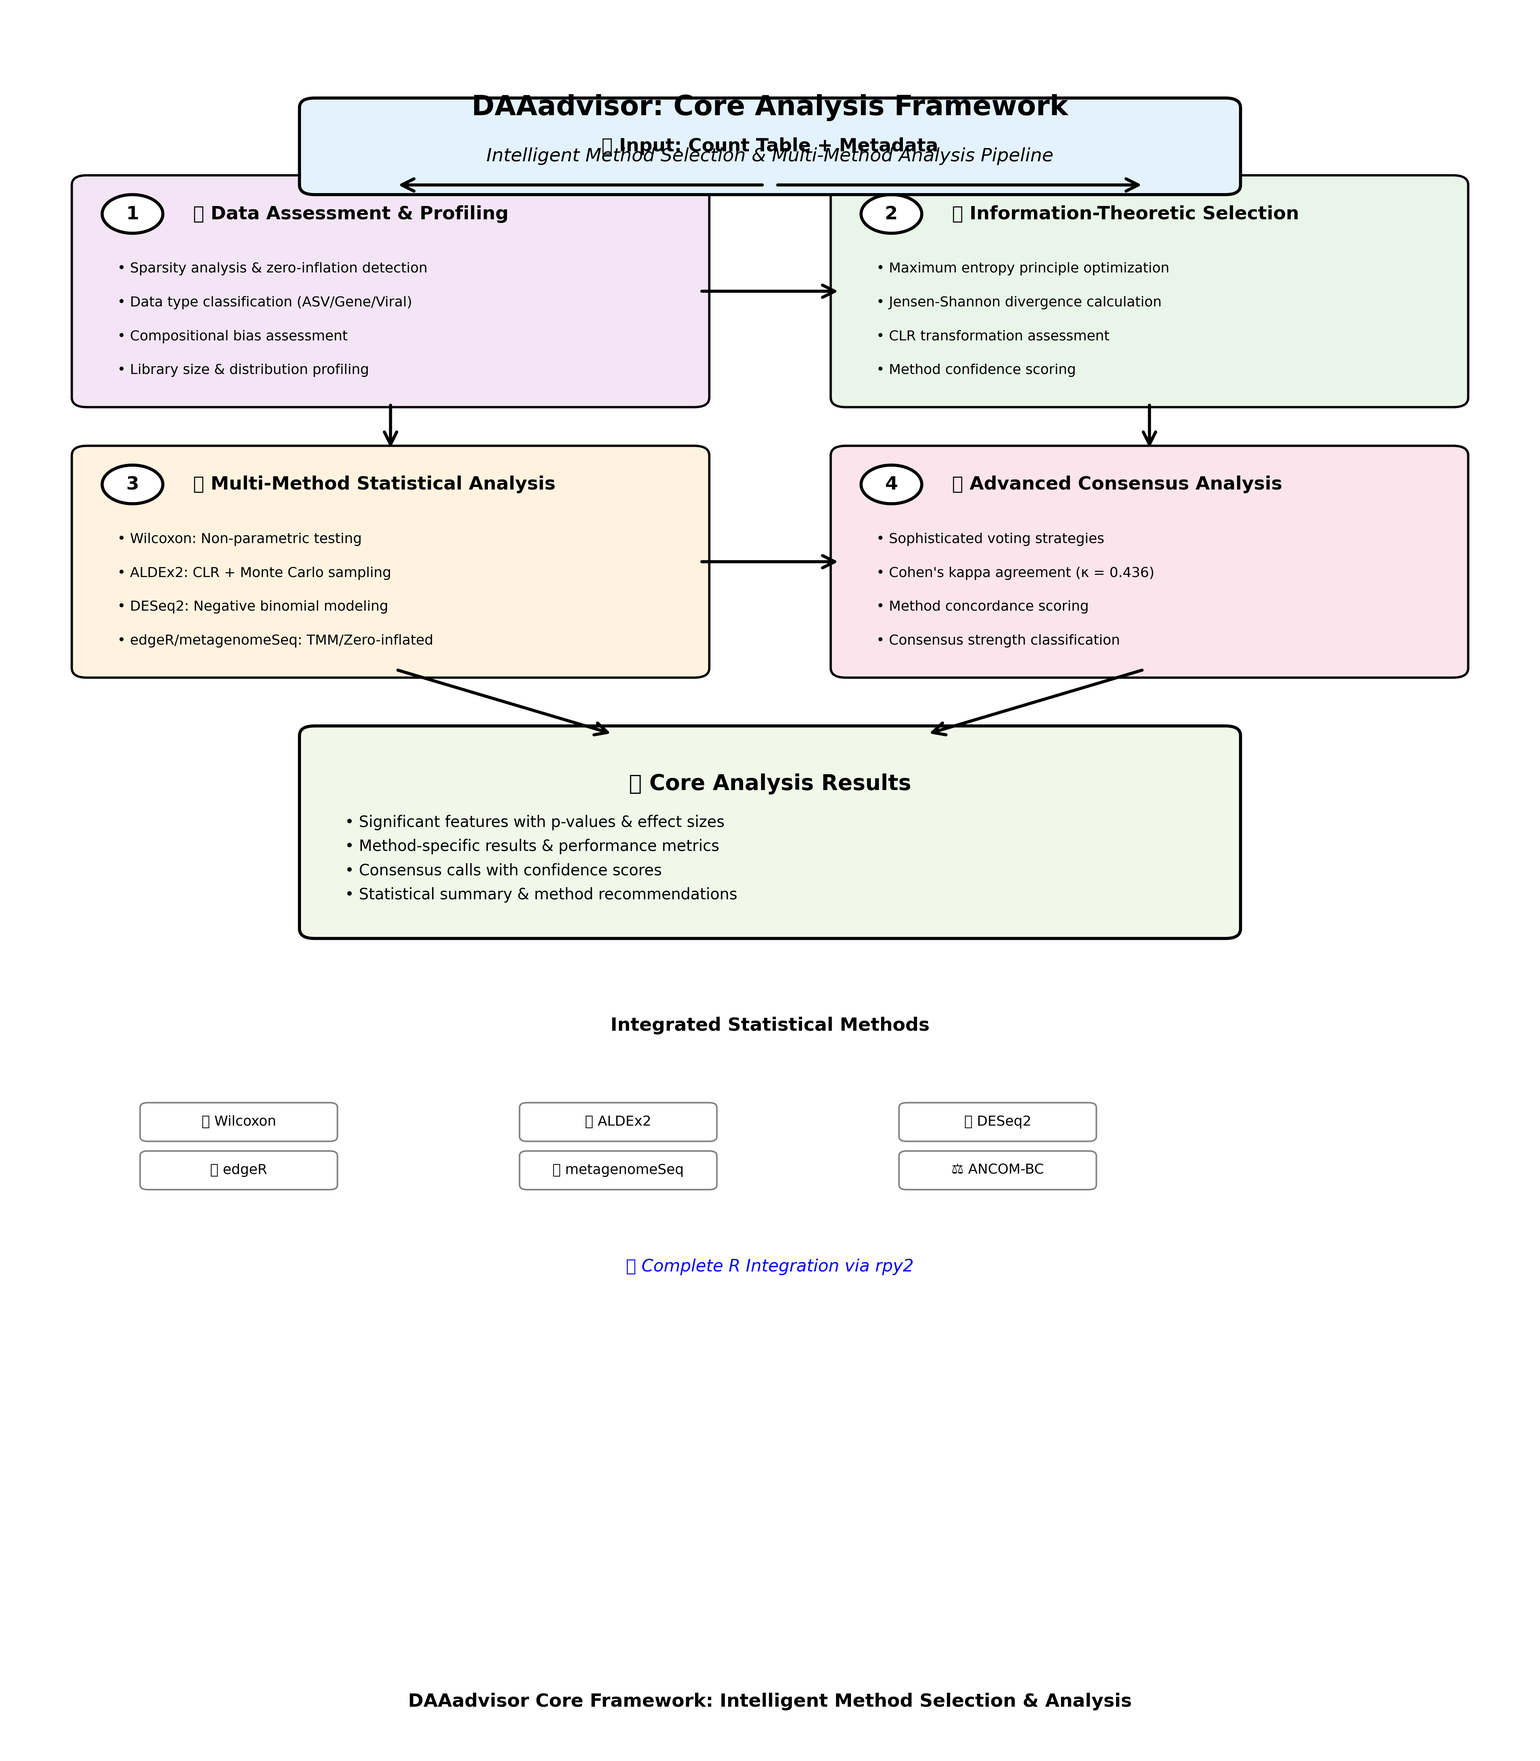
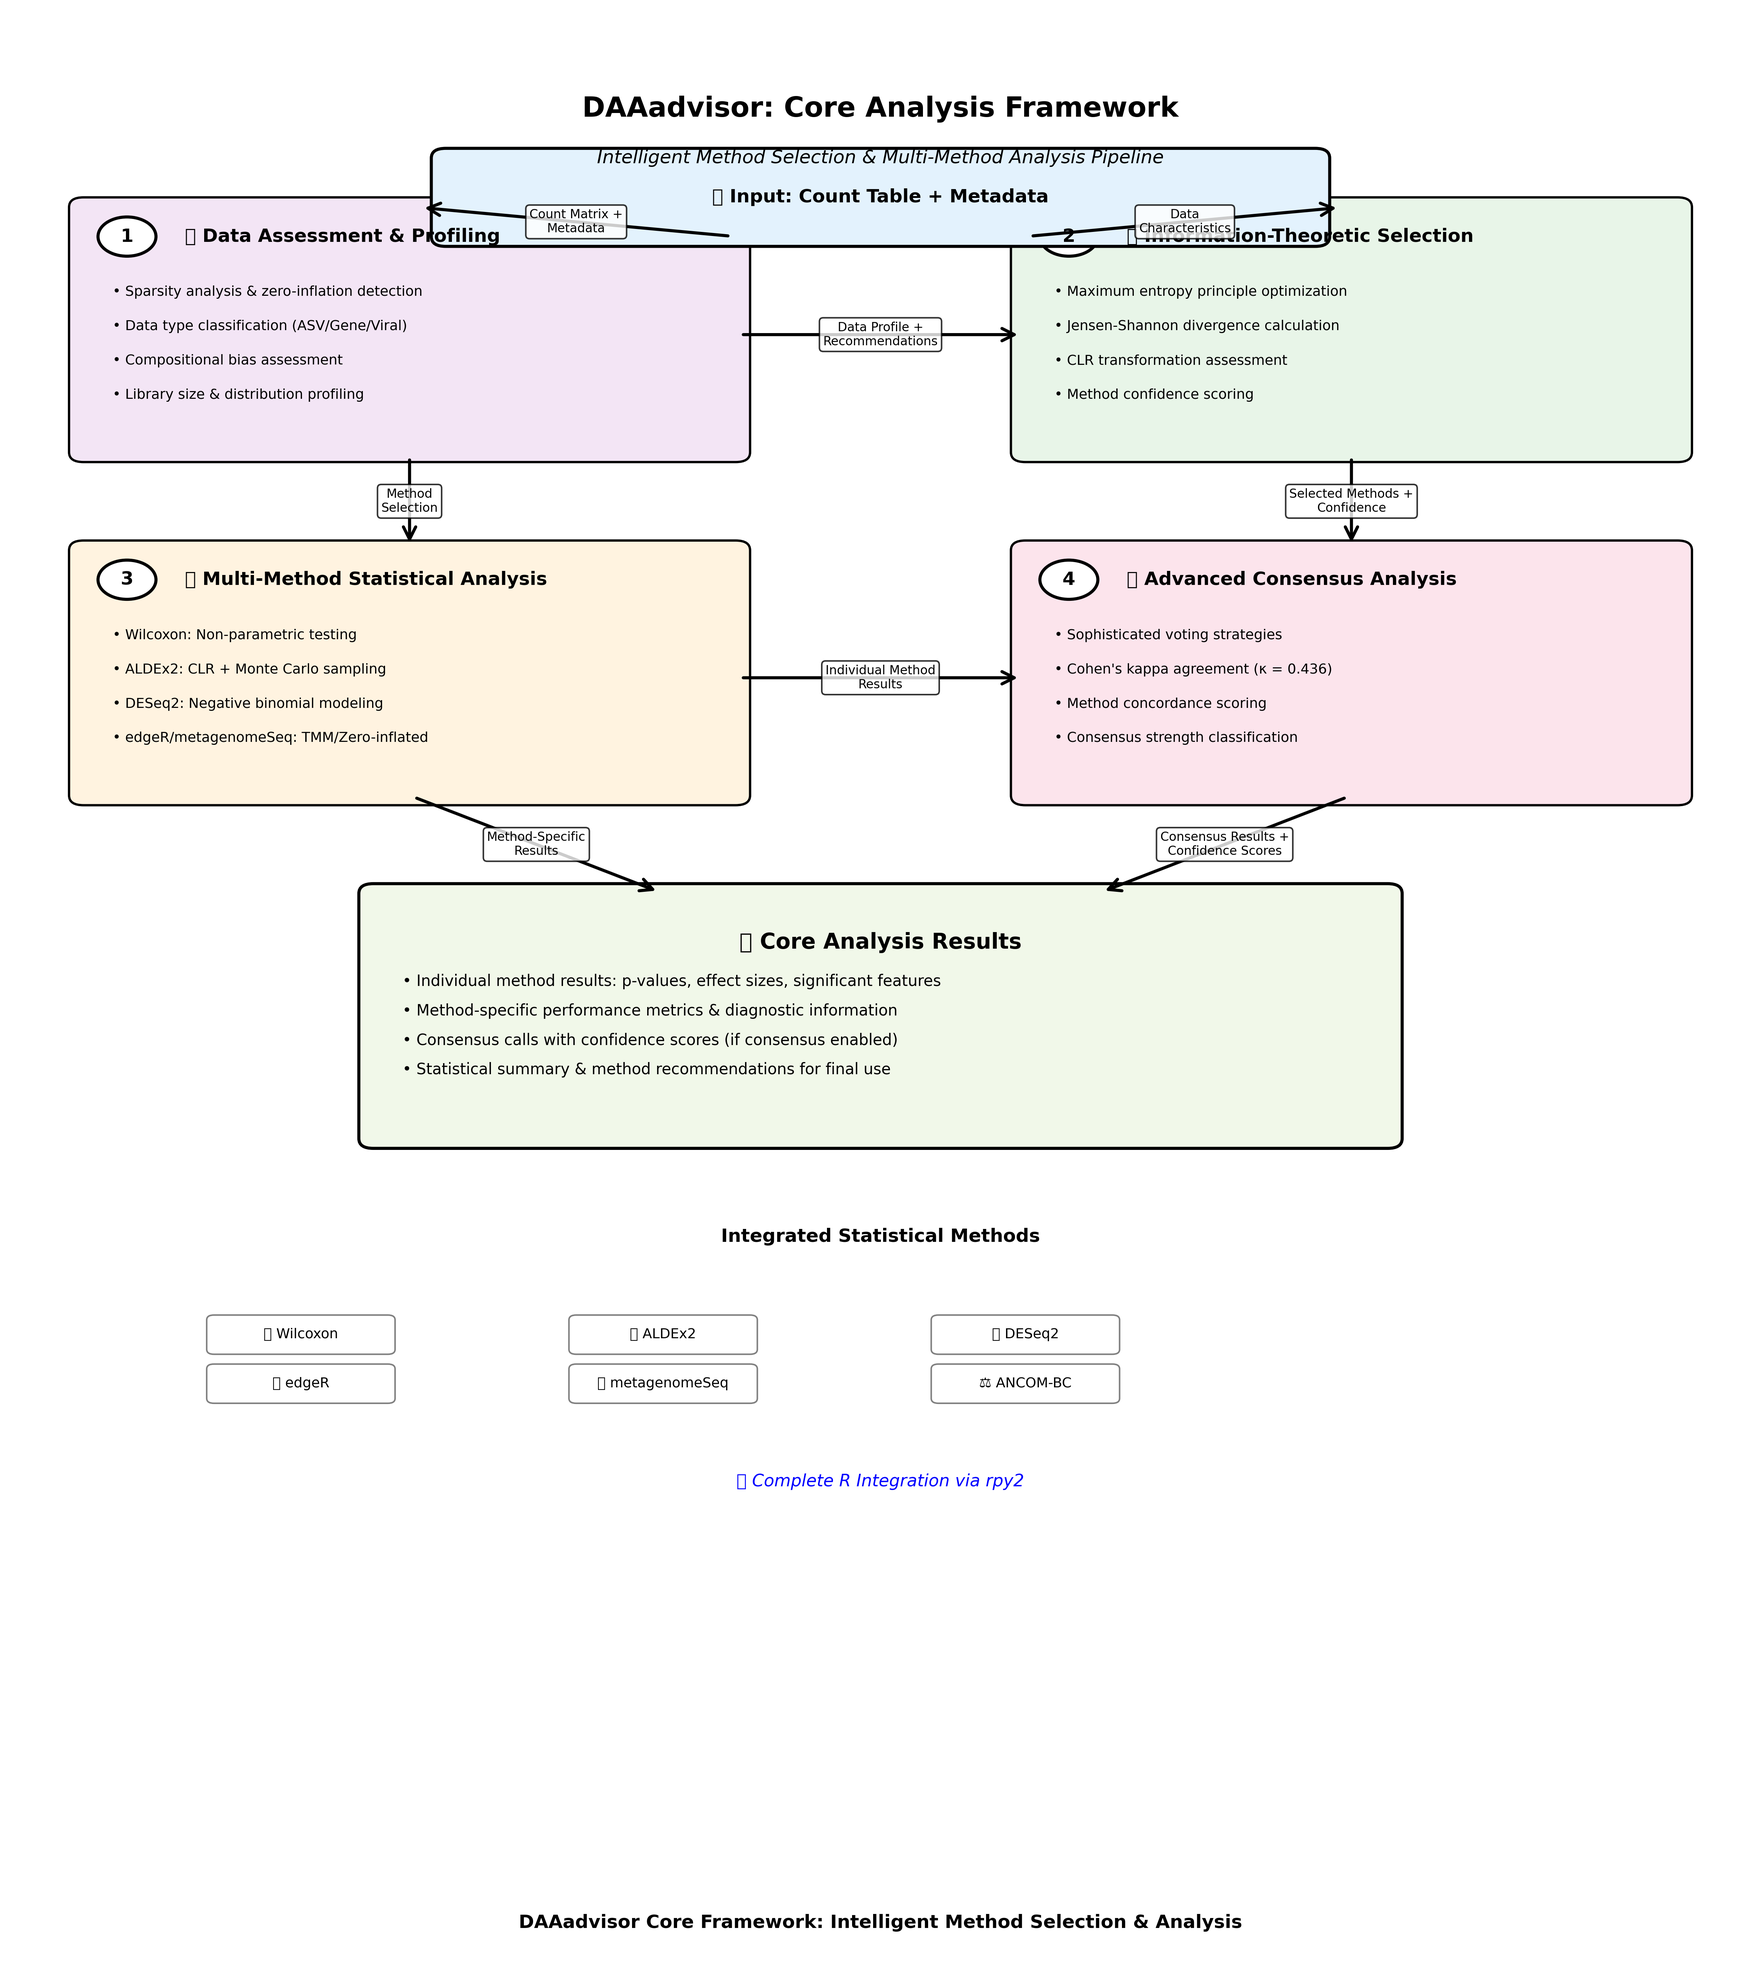
Enhanced workflow diagrams with improved spacing and data flow labels
✨ VISUAL ENHANCEMENT: Improved diagram clarity and information flow
📐 Better Dimensions: Larger canvas (16x18) with proper spacing to prevent overlaps
🏷 Data Flow Labels: Added descriptive labels on all arrows showing inputs/outputs
📊 Clear Structure: Better box positioning and text readability

Core Framework Improvements:
- Added input/output labels: "Count Matrix + Metadata", "Data Profile + Recommendations", etc.
- Enhanced results box with clearer descriptions of both individual and consensus results
- Improved spacing between all components

Validation Framework Improvements:
- Added data flow labels: "Core Analysis Results", "Real Dataset + Ground Truth", etc.
- Better positioning of cross-validation components
- Clearer distinction between real and synthetic data paths

🤖 Generated with [Claude Code](https://claude.ai/code)

diff --git a/create_validation_workflow_diagram.py b/create_validation_workflow_diagram.py
@@ -15,9 +15,9 @@ plt.rcParams['savefig.dpi'] = 300
 plt.rcParams['font.size'] = 10
 plt.rcParams['font.family'] = 'sans-serif'
 
-fig, ax = plt.subplots(1, 1, figsize=(14, 16))
-ax.set_xlim(0, 10)
-ax.set_ylim(0, 18)
+fig, ax = plt.subplots(1, 1, figsize=(16, 18))
+ax.set_xlim(0, 12)
+ax.set_ylim(0, 20)
 ax.axis('off')
 
 # Color scheme
@@ -61,8 +61,8 @@ def create_step_box(x, y, width, height, title, details, color, step_num):
                 ha='left', va='top', fontsize=9, wrap=True)
         detail_y -= 0.35
 
-def create_arrow(start_x, start_y, end_x, end_y, style='->', color='black'):
-    """Create connection arrow between steps"""
+def create_arrow(start_x, start_y, end_x, end_y, style='->', color='black', label='', label_pos='mid'):
+    """Create connection arrow between steps with optional label"""
     arrow = ConnectionPatch(
         (start_x, start_y), (end_x, end_y), 
         "data", "data",
@@ -70,28 +70,43 @@ def create_arrow(start_x, start_y, end_x, end_y, style='->', color='black'):
         mutation_scale=20, fc=color, linewidth=2, color=color
     )
     ax.add_patch(arrow)
+    
+    # Add label if provided
+    if label:
+        if label_pos == 'mid':
+            label_x = (start_x + end_x) / 2
+            label_y = (start_y + end_y) / 2
+        elif label_pos == 'start':
+            label_x = start_x + 0.2
+            label_y = start_y + 0.1
+        else:  # 'end'
+            label_x = end_x - 0.2
+            label_y = end_y - 0.1
+            
+        ax.text(label_x, label_y, label, ha='center', va='center', 
+                fontsize=8, bbox=dict(boxstyle="round,pad=0.3", facecolor='white', alpha=0.8))
 
 # Title
-ax.text(5, 17, 'DAAadvisor: Validation & Testing Framework', 
+ax.text(6, 19, 'DAAadvisor: Validation & Testing Framework', 
         ha='center', va='center', fontsize=18, fontweight='bold')
-ax.text(5, 16.5, 'Cross-Validation, Real Data Integration & Publication-Quality Reporting', 
+ax.text(6, 18.5, 'Cross-Validation, Real Data Integration & Publication-Quality Reporting', 
         ha='center', va='center', fontsize=12, style='italic')
 
 # Input from Core Analysis
 input_box = FancyBboxPatch(
-    (2, 15.2), 6, 0.8,
+    (3, 17.7), 6, 0.8,
     boxstyle="round,pad=0.1",
     facecolor='#F5F5F5',
     edgecolor='black',
     linewidth=2
 )
 ax.add_patch(input_box)
-ax.text(5, 15.6, '⬆ From Core Analysis: Method Results & Consensus', 
+ax.text(6, 18.1, '⬆ From Core Analysis: Method Results & Consensus', 
         ha='center', va='center', fontweight='bold', fontsize=12)
 
 # Step 5: Real Data Integration
 create_step_box(
-    0.5, 12.5, 4, 2.2,
+    0.5, 14.5, 4.5, 2.5,
     "🧬 Real Data Integration",
     [
         "curatedMetagenomicData download",
@@ -104,7 +119,7 @@ create_step_box(
 
 # Synthetic Data Generation
 create_step_box(
-    5.5, 12.5, 4, 2.2,
+    7, 14.5, 4.5, 2.5,
     "🎭 Synthetic Data Generation",
     [
         "Literature-based realistic simulations",
@@ -117,7 +132,7 @@ create_step_box(
 
 # Step 6: Cross-Validation Framework
 create_step_box(
-    2.25, 9.8, 5.5, 2.2,
+    3, 11.5, 6, 2.5,
     "🔄 Cross-Validation Framework",
     [
         "Real vs synthetic performance comparison",
@@ -130,7 +145,7 @@ create_step_box(
 
 # Step 7: Publication Validation
 create_step_box(
-    0.5, 7.1, 4, 2.2,
+    0.5, 8.5, 4.5, 2.5,
     "🏆 Publication-Quality Validation",
     [
         "Statistical rigor with confidence intervals",
@@ -143,7 +158,7 @@ create_step_box(
 
 # Step 8: Results & Reporting
 create_step_box(
-    5.5, 7.1, 4, 2.2,
+    7, 8.5, 4.5, 2.5,
     "📈 Results & Comprehensive Reporting",
     [
         "Interactive HTML dashboards",
@@ -156,7 +171,7 @@ create_step_box(
 
 # Final Output Box
 output_box = FancyBboxPatch(
-    (1.5, 4.5), 7, 2,
+    (2.5, 5.5), 7, 2.5,
     boxstyle="round,pad=0.15",
     facecolor=colors['results'],
     edgecolor='black',
@@ -164,41 +179,41 @@ output_box = FancyBboxPatch(
 )
 ax.add_patch(output_box)
 
-ax.text(5, 6, '🎯 Publication-Ready Results', 
+ax.text(6, 7.5, '🎯 Publication-Ready Results', 
         ha='center', va='center', fontweight='bold', fontsize=14)
 
 output_details = [
-    "• Cross-validated performance metrics with confidence intervals",
-    "• Real vs synthetic data comparison reports",
-    "• Literature-confirmed biomarker validation",
-    "• Interactive dashboards & journal-ready visualizations"
+    "• Cross-validated performance metrics with bootstrap confidence intervals",
+    "• Real vs synthetic data comparison reports & correlation analysis",
+    "• Literature-confirmed biomarker validation with known ground truth",
+    "• Interactive HTML dashboards & journal-ready publication figures"
 ]
 
-y_pos = 5.6
+y_pos = 7.1
 for detail in output_details:
-    ax.text(1.7, y_pos, detail, ha='left', va='center', fontsize=10)
-    y_pos -= 0.25
+    ax.text(2.7, y_pos, detail, ha='left', va='center', fontsize=10)
+    y_pos -= 0.3
 
-# Add connecting arrows
+# Add connecting arrows with labels
 # From input to data sources
-create_arrow(4, 15.2, 2.5, 14.7)  # Input to real data
-create_arrow(6, 15.2, 7.5, 14.7)  # Input to synthetic
+create_arrow(5, 17.7, 2.8, 17, label='Core Analysis\nResults', label_pos='mid')  # Input to real data
+create_arrow(7, 17.7, 9.2, 17, label='Method Performance\nBaseline', label_pos='mid')  # Input to synthetic
 
 # Data sources to cross-validation
-create_arrow(2.5, 12.5, 4, 12)    # Real data to cross-val
-create_arrow(7.5, 12.5, 6, 12)    # Synthetic to cross-val
+create_arrow(2.75, 14.5, 5, 14, label='Real Dataset +\nGround Truth', label_pos='mid')    # Real data to cross-val
+create_arrow(9.25, 14.5, 7, 14, label='Synthetic Dataset +\nKnown Truth', label_pos='mid')    # Synthetic to cross-val
 
 # Cross-validation to outputs
-create_arrow(3.5, 9.8, 2.5, 9.3)  # Cross-val to validation
-create_arrow(6.5, 9.8, 7.5, 9.3)  # Cross-val to reporting
+create_arrow(4.5, 11.5, 2.8, 11, label='Performance\nMetrics', label_pos='mid')  # Cross-val to validation
+create_arrow(7.5, 11.5, 9.2, 11, label='Validation\nResults', label_pos='mid')  # Cross-val to reporting
 
 # To final results
-create_arrow(2.5, 7.1, 4, 6.5)    # Validation to results
-create_arrow(7.5, 7.1, 6, 6.5)    # Reporting to results
+create_arrow(2.75, 8.5, 4.5, 8, label='Statistical\nValidation', label_pos='mid')    # Validation to results
+create_arrow(9.25, 8.5, 7.5, 8, label='Reports +\nVisualizations', label_pos='mid')    # Reporting to results
 
 # Add validation datasets
-datasets_y = 2.5
-ax.text(5, 3.5, 'Validated Real-World Datasets', 
+datasets_y = 3.5
+ax.text(6, 4.5, 'Validated Real-World Datasets', 
         ha='center', va='center', fontweight='bold', fontsize=12)
 
 datasets = [
@@ -207,7 +222,7 @@ datasets = [
 ]
 
 for i, dataset in enumerate(datasets):
-    x_pos = 1 + (i % 3) * 2.5
+    x_pos = 2 + (i % 3) * 2.5
     y_pos = datasets_y - (i // 3) * 0.4
     
     dataset_box = FancyBboxPatch(
@@ -221,11 +236,11 @@ for i, dataset in enumerate(datasets):
     ax.text(x_pos, y_pos, dataset, ha='center', va='center', fontsize=9)
 
 # Add performance highlights
-ax.text(5, 1.2, '🏆 Key Achievements: 100% Success Rate • 6/6 Methods Functional • Real Data Validated', 
+ax.text(6, 2.2, '🏆 Key Achievements: 100% Success Rate • 6/6 Methods Functional • Real Data Validated', 
         ha='center', va='center', fontsize=11, fontweight='bold', color='green')
 
 # Add footer
-ax.text(5, 0.5, 'DAAadvisor Validation Framework: Ensuring Scientific Rigor & Reproducibility', 
+ax.text(6, 0.5, 'DAAadvisor Validation Framework: Ensuring Scientific Rigor & Reproducibility', 
         ha='center', va='center', fontsize=12, fontweight='bold')
 
 plt.tight_layout()

diff --git a/create_core_workflow_diagram.py b/create_core_workflow_diagram.py
@@ -15,9 +15,9 @@ plt.rcParams['savefig.dpi'] = 300
 plt.rcParams['font.size'] = 10
 plt.rcParams['font.family'] = 'sans-serif'
 
-fig, ax = plt.subplots(1, 1, figsize=(14, 16))
-ax.set_xlim(0, 10)
-ax.set_ylim(0, 18)
+fig, ax = plt.subplots(1, 1, figsize=(16, 18))
+ax.set_xlim(0, 12)
+ax.set_ylim(0, 20)
 ax.axis('off')
 
 # Color scheme
@@ -61,8 +61,8 @@ def create_step_box(x, y, width, height, title, details, color, step_num):
                 ha='left', va='top', fontsize=9, wrap=True)
         detail_y -= 0.35
 
-def create_arrow(start_x, start_y, end_x, end_y, style='->'):
-    """Create connection arrow between steps"""
+def create_arrow(start_x, start_y, end_x, end_y, style='->', label='', label_pos='mid'):
+    """Create connection arrow between steps with optional label"""
     arrow = ConnectionPatch(
         (start_x, start_y), (end_x, end_y), 
         "data", "data",
@@ -70,16 +70,31 @@ def create_arrow(start_x, start_y, end_x, end_y, style='->'):
         mutation_scale=20, fc="black", linewidth=2
     )
     ax.add_patch(arrow)
+    
+    # Add label if provided
+    if label:
+        if label_pos == 'mid':
+            label_x = (start_x + end_x) / 2
+            label_y = (start_y + end_y) / 2
+        elif label_pos == 'start':
+            label_x = start_x + 0.2
+            label_y = start_y + 0.1
+        else:  # 'end'
+            label_x = end_x - 0.2
+            label_y = end_y - 0.1
+            
+        ax.text(label_x, label_y, label, ha='center', va='center', 
+                fontsize=8, bbox=dict(boxstyle="round,pad=0.3", facecolor='white', alpha=0.8))
 
 # Title
-ax.text(5, 17, 'DAAadvisor: Core Analysis Framework', 
+ax.text(6, 19, 'DAAadvisor: Core Analysis Framework', 
         ha='center', va='center', fontsize=18, fontweight='bold')
-ax.text(5, 16.5, 'Intelligent Method Selection & Multi-Method Analysis Pipeline', 
+ax.text(6, 18.5, 'Intelligent Method Selection & Multi-Method Analysis Pipeline', 
         ha='center', va='center', fontsize=12, style='italic')
 
 # Step 1: Data Input & Profiling
 create_step_box(
-    0.5, 14, 4, 2.2,
+    0.5, 15.5, 4.5, 2.5,
     "📊 Data Assessment & Profiling",
     [
         "Sparsity analysis & zero-inflation detection",
@@ -92,7 +107,7 @@ create_step_box(
 
 # Step 2: Information-Theoretic Selection
 create_step_box(
-    5.5, 14, 4, 2.2,
+    7, 15.5, 4.5, 2.5,
     "🧮 Information-Theoretic Selection",
     [
         "Maximum entropy principle optimization",
@@ -105,7 +120,7 @@ create_step_box(
 
 # Step 3: Multi-Method Analysis
 create_step_box(
-    0.5, 11.2, 4, 2.2,
+    0.5, 12, 4.5, 2.5,
     "🔬 Multi-Method Statistical Analysis",
     [
         "Wilcoxon: Non-parametric testing",
@@ -118,7 +133,7 @@ create_step_box(
 
 # Step 4: Advanced Consensus
 create_step_box(
-    5.5, 11.2, 4, 2.2,
+    7, 12, 4.5, 2.5,
     "🤝 Advanced Consensus Analysis",
     [
         "Sophisticated voting strategies",
@@ -131,19 +146,19 @@ create_step_box(
 
 # Input Data Box
 input_box = FancyBboxPatch(
-    (2, 16.2), 6, 0.8,
+    (3, 17.7), 6, 0.8,
     boxstyle="round,pad=0.1",
     facecolor=colors['input'],
     edgecolor='black',
     linewidth=2
 )
 ax.add_patch(input_box)
-ax.text(5, 16.6, '📋 Input: Count Table + Metadata', 
+ax.text(6, 18.1, '📋 Input: Count Table + Metadata', 
         ha='center', va='center', fontweight='bold', fontsize=12)
 
 # Results Box  
 results_box = FancyBboxPatch(
-    (2, 8.5), 6, 2,
+    (2.5, 8.5), 7, 2.5,
     boxstyle="round,pad=0.1",
     facecolor=colors['output'],
     edgecolor='black',
@@ -151,35 +166,35 @@ results_box = FancyBboxPatch(
 )
 ax.add_patch(results_box)
 
-ax.text(5, 10, '📈 Core Analysis Results', 
+ax.text(6, 10.5, '📈 Core Analysis Results', 
         ha='center', va='center', fontweight='bold', fontsize=14)
 
 results_details = [
-    "• Significant features with p-values & effect sizes",
-    "• Method-specific results & performance metrics", 
-    "• Consensus calls with confidence scores",
-    "• Statistical summary & method recommendations"
+    "• Individual method results: p-values, effect sizes, significant features",
+    "• Method-specific performance metrics & diagnostic information", 
+    "• Consensus calls with confidence scores (if consensus enabled)",
+    "• Statistical summary & method recommendations for final use"
 ]
 
-y_pos = 9.6
+y_pos = 10.1
 for detail in results_details:
-    ax.text(2.2, y_pos, detail, ha='left', va='center', fontsize=10)
-    y_pos -= 0.25
+    ax.text(2.7, y_pos, detail, ha='left', va='center', fontsize=10)
+    y_pos -= 0.3
 
-# Add connecting arrows
+# Add connecting arrows with labels
 # Input to processing
-create_arrow(5, 16.2, 2.5, 16.2)  # Input to Step 1
-create_arrow(5, 16.2, 7.5, 16.2)  # Input to Step 2
+create_arrow(5, 17.7, 2.8, 18, label='Count Matrix +\nMetadata', label_pos='mid')  # Input to Step 1
+create_arrow(7, 17.7, 9.2, 18, label='Data\nCharacteristics', label_pos='mid')  # Input to Step 2
 
 # Between steps
-create_arrow(4.5, 15.1, 5.5, 15.1)  # 1 to 2
-create_arrow(2.5, 14, 2.5, 13.4)    # 1 to 3
-create_arrow(7.5, 14, 7.5, 13.4)    # 2 to 4
-create_arrow(4.5, 12.3, 5.5, 12.3)  # 3 to 4
+create_arrow(5, 16.7, 7, 16.7, label='Data Profile +\nRecommendations', label_pos='mid')  # 1 to 2
+create_arrow(2.75, 15.5, 2.75, 14.5, label='Method\nSelection', label_pos='mid')    # 1 to 3
+create_arrow(9.25, 15.5, 9.25, 14.5, label='Selected Methods +\nConfidence', label_pos='mid')    # 2 to 4
+create_arrow(5, 13.2, 7, 13.2, label='Individual Method\nResults', label_pos='mid')  # 3 to 4
 
 # To results
-create_arrow(2.5, 11.2, 4, 10.5)    # 3 to results
-create_arrow(7.5, 11.2, 6, 10.5)    # 4 to results
+create_arrow(2.75, 12, 4.5, 11, label='Method-Specific\nResults', label_pos='mid')    # 3 to results
+create_arrow(9.25, 12, 7.5, 11, label='Consensus Results +\nConfidence Scores', label_pos='mid')    # 4 to results
 
 # Add method icons
 method_y = 6.5
@@ -188,11 +203,11 @@ methods = [
     "📈 edgeR", "🔍 metagenomeSeq", "⚖ ANCOM-BC"
 ]
 
-ax.text(5, 7.5, 'Integrated Statistical Methods', 
+ax.text(6, 7.5, 'Integrated Statistical Methods', 
         ha='center', va='center', fontweight='bold', fontsize=12)
 
 for i, method in enumerate(methods):
-    x_pos = 1.5 + (i % 3) * 2.5
+    x_pos = 2 + (i % 3) * 2.5
     y_pos = method_y - (i // 3) * 0.5
     
     method_box = FancyBboxPatch(
@@ -206,11 +221,11 @@ for i, method in enumerate(methods):
     ax.text(x_pos, y_pos, method, ha='center', va='center', fontsize=9)
 
 # Add R Integration note
-ax.text(5, 5, '🔗 Complete R Integration via rpy2', 
+ax.text(6, 5, '🔗 Complete R Integration via rpy2', 
         ha='center', va='center', fontsize=11, style='italic', color='blue')
 
 # Add footer
-ax.text(5, 0.5, 'DAAadvisor Core Framework: Intelligent Method Selection & Analysis', 
+ax.text(6, 0.5, 'DAAadvisor Core Framework: Intelligent Method Selection & Analysis', 
         ha='center', va='center', fontsize=12, fontweight='bold')
 
 plt.tight_layout()
